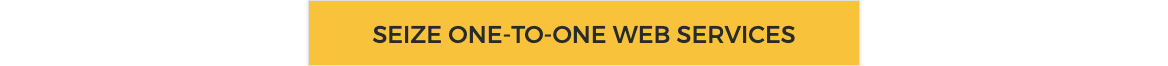
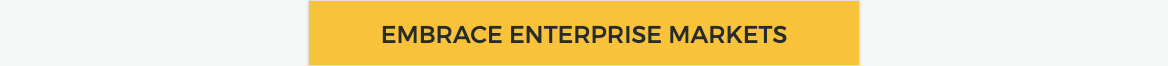
further updates

Changed region(s): [[0.3082, 0.3939, 0.6781, 0.6667]]

diff --git a/.slicemachine/assets/slices/Button/index.stories.js b/.slicemachine/assets/slices/Button/index.stories.js
@@ -5,17 +5,17 @@ export default {
 }
 
 
-export const _DefaultSlice = () => <MyComponent slice={{"variation":"default-slice","name":"Default slice","slice_type":"button","items":[],"primary":{"linkUrl":{"link_type":"Web","url":"https://slicemachine.dev"},"linkTitle":"synergize visionary applications"},"id":"_DefaultSlice"}} />
+export const _DefaultSlice = () => <MyComponent slice={{"variation":"default-slice","name":"Default slice","slice_type":"button","items":[],"primary":{"linkUrl":{"link_type":"Web","url":"https://prismic.io"},"linkTitle":"enable global models"},"id":"_DefaultSlice"}} />
 _DefaultSlice.storyName = 'Default slice'
 
-export const _RedButton = () => <MyComponent slice={{"variation":"redButton","name":"Red button","slice_type":"button","items":[],"primary":{"linkUrl":{"link_type":"Web","url":"https://prismic.io"},"linkTitle":"disintermediate dot-com e-services"},"id":"_RedButton"}} />
+export const _RedButton = () => <MyComponent slice={{"variation":"redButton","name":"Red button","slice_type":"button","items":[],"primary":{"linkUrl":{"link_type":"Web","url":"https://prismic.io"},"linkTitle":"e-enable customized blockchains"},"id":"_RedButton"}} />
 _RedButton.storyName = 'Red button'
 
-export const _YellowButton = () => <MyComponent slice={{"variation":"yellowButton","name":"Yellow button","slice_type":"button","items":[],"primary":{"linkUrl":{"link_type":"Web","url":"http://twitter.com"},"linkTitle":"seize one-to-one web services"},"id":"_YellowButton"}} />
+export const _YellowButton = () => <MyComponent slice={{"variation":"yellowButton","name":"Yellow button","slice_type":"button","items":[],"primary":{"linkUrl":{"link_type":"Web","url":"http://twitter.com"},"linkTitle":"embrace enterprise markets"},"id":"_YellowButton"}} />
 _YellowButton.storyName = 'Yellow button'
 
-export const _TealButton = () => <MyComponent slice={{"variation":"tealButton","name":"Teal button","slice_type":"button","items":[],"primary":{"linkUrl":{"link_type":"Web","url":"http://twitter.com"},"linkTitle":"seize intuitive platforms"},"id":"_TealButton"}} />
+export const _TealButton = () => <MyComponent slice={{"variation":"tealButton","name":"Teal button","slice_type":"button","items":[],"primary":{"linkUrl":{"link_type":"Web","url":"http://twitter.com"},"linkTitle":"deliver ubiquitous users"},"id":"_TealButton"}} />
 _TealButton.storyName = 'Teal button'
 
-export const _PurpleButton = () => <MyComponent slice={{"variation":"purpleButton","name":"Purple Button","slice_type":"button","items":[],"primary":{"linkUrl":{"link_type":"Web","url":"https://prismic.io"},"linkTitle":"utilize rich eyeballs"},"id":"_PurpleButton"}} />
+export const _PurpleButton = () => <MyComponent slice={{"variation":"purpleButton","name":"Purple Button","slice_type":"button","items":[],"primary":{"linkUrl":{"link_type":"Web","url":"https://slicemachine.dev"},"linkTitle":"seize distributed interfaces"},"id":"_PurpleButton"}} />
 _PurpleButton.storyName = 'Purple Button'

diff --git a/.slicemachine/assets/slices/Header/index.stories.js b/.slicemachine/assets/slices/Header/index.stories.js
@@ -5,5 +5,5 @@ export default {
 }
 
 
-export const _DefaultSlice = () => <MyComponent slice={{"variation":"default-slice","name":"Default slice","slice_type":"header","items":[],"primary":{"title":"redefine next-generation communities","logo":{"dimensions":{"width":900,"height":500},"alt":"Placeholder image","copyright":null,"url":"https://images.unsplash.com/photo-1587840171670-8b850147754e?w=900&h=500&fit=crop"}},"id":"_DefaultSlice"}} />
+export const _DefaultSlice = () => <MyComponent slice={{"variation":"default-slice","name":"Default slice","slice_type":"header","items":[],"primary":{"title":"scale bricks-and-clicks methodologies","logo":{"dimensions":{"width":900,"height":500},"alt":"Placeholder image","copyright":null,"url":"https://images.unsplash.com/photo-1545239351-1141bd82e8a6?w=900&h=500&fit=crop"}},"id":"_DefaultSlice"}} />
 _DefaultSlice.storyName = 'Default slice'

diff --git a/pages/index.js b/pages/index.js
@@ -5,7 +5,7 @@ import { useGetStaticProps } from "next-slicezone/hooks";
 import resolver from "../sm-resolver.js";
 
 const Page = (props) => (
-  <div className="bg-gray-50 dark:bg-purple-700 absolute inset-0">
+  <div className="bg-gray-50 dark:bg-purple-900 w-screen absolute pb-20">
     <SliceZone {...props} resolver={resolver} />
   </div>
 );
@@ -16,7 +16,7 @@ export const getStaticProps = useGetStaticProps({
   type: "page",
   queryType: "repeat",
   apiParams: {
-    uid: "home",
+    uid: "myc3",
   },
 });
 

diff --git a/slices/Button/index.js b/slices/Button/index.js
@@ -15,7 +15,7 @@ const variations = {
 };
 
 const Button = ({ slice }) => {
-  const buttonClasses = `text-2xl mx-4 py-4 border uppercase shadow hover:translate-y-px hover:shadow-sm col-start-1 col-span-1 md:col-span-2 md:col-start-2 text-center ${
+  const buttonClasses = `text-2xl mx-4 lg:mx-20 py-4 border uppercase shadow hover:translate-y-px hover:shadow-sm col-start-1 col-span-1 md:col-span-2 md:col-start-2 text-center ${
     variations[slice.variation]
   }`;
   return (

diff --git a/README.md b/README.md
@@ -1,8 +1,8 @@
 # todo
 
+- Footer component
 - transfer to the main C3 prismic repo.
 - Deploy and link up dns
-- Footer component
 
 Questions: what on here is permanent and what is transient?
 This directs the next things that get transfered over to a native feel
@@ -15,7 +15,6 @@ This directs the next things that get transfered over to a native feel
 Connect with us http://thec3.uk/connect - content page
 Book in for a Baptism Class http://thec3.uk/baptism - content page
 Light Night 2021 http://thec3.uk/lightnight - redirect
-Breathe Banquet http://breathe.thec3.uk/banquet - redirect/page
 Great Decision http://thec3.uk/greatdecision - content page
 Check out our courses http://thec3.uk/courses - content page
 Join a Team http://thec3.uk/teamc3 - content page
